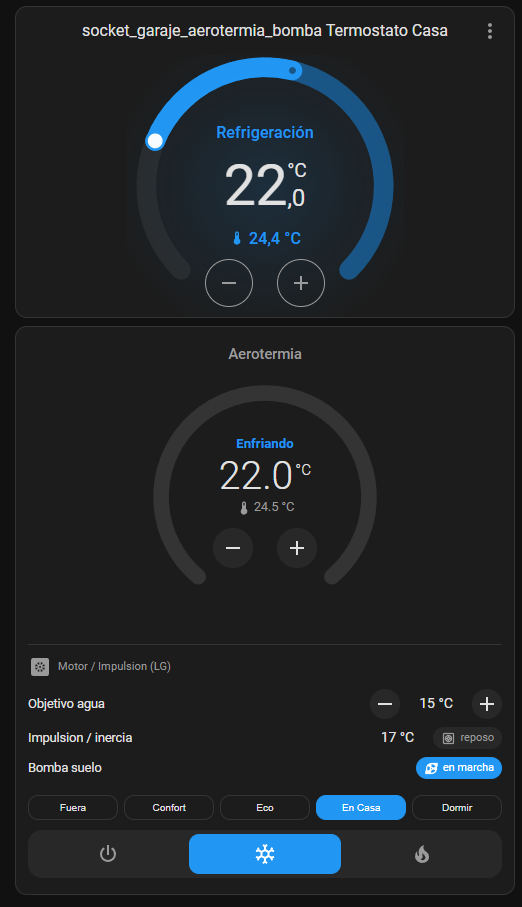
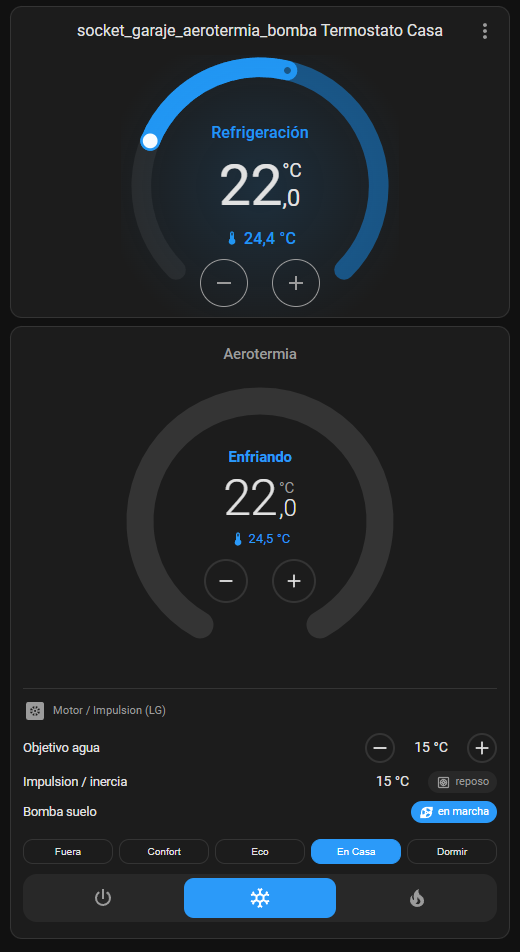
v1.2.1: fix dial invisible (usar tag svg de lit para fragmentos SVG)
Los fragmentos SVG interpolados (aro de color, degradado, tirador, punto actual)
se creaban con html`` (namespace HTML) y no se pintaban; ahora usan svg``.

diff --git a/src/aerothermal-card.ts b/src/aerothermal-card.ts
@@ -1,4 +1,4 @@
-import { LitElement, html, css, TemplateResult, nothing, PropertyValues } from "lit";
+import { LitElement, html, svg, css, TemplateResult, nothing, PropertyValues } from "lit";
 import { customElement, property, state } from "lit/decorators.js";
 import {
   HomeAssistant,
@@ -212,11 +212,11 @@ export class AerothermalCard extends LitElement implements LovelaceCard {
 <defs>
               <linearGradient id=${gradId} x1="0" y1="0" x2="1" y2="1">
                 ${this.modeState === MODE_OPTION.cool
-                  ? html`<stop offset="0%" stop-color="#5cc6ff" /><stop
+                  ? svg`<stop offset="0%" stop-color="#5cc6ff" /><stop
                         offset="100%"
                         stop-color="#1f7fd6"
                       />`
-                  : html`<stop offset="0%" stop-color="#ffb454" /><stop
+                  : svg`<stop offset="0%" stop-color="#ffb454" /><stop
                         offset="100%"
                         stop-color="#e8730a"
                       />`}
@@ -225,7 +225,7 @@ export class AerothermalCard extends LitElement implements LovelaceCard {
             <path class="track" d=${arcPath(100, 100, ARC_R, ARC_START, ARC_END)} />
             ${this.isOff
               ? nothing
-              : html`
+              : svg`
                   <!-- glow difuminado detras del aro -->
                   <path
                     class="glow"
@@ -238,7 +238,7 @@ export class AerothermalCard extends LitElement implements LovelaceCard {
                     d=${arcPath(100, 100, ARC_R, valueAngle, ARC_END)}
                   />
                   ${curDot
-                    ? html`<circle
+                    ? svg`<circle
                         class="curdot"
                         cx=${curDot.x}
                         cy=${curDot.y}

diff --git a/src/const.ts b/src/const.ts
@@ -1,3 +1,3 @@
-export const CARD_VERSION = "1.2.0";
+export const CARD_VERSION = "1.2.1";
 export const CARD_TAG = "aerothermal-temperature-control";
 export const EDITOR_TAG = "aerothermal-temperature-control-editor";

diff --git a/CHANGELOG.md b/CHANGELOG.md
@@ -4,6 +4,14 @@ Todas las versiones notables de este proyecto se documentan aquí.
 El formato sigue [Keep a Changelog](https://keepachangelog.com/) y
 [SemVer](https://semver.org/lang/es/).
 
+## [1.2.1] - 2026-06-18
+
+### Corregido
+- **No se veían el aro de color, el degradado, el tirador ni el punto de temperatura actual**
+  (solo el track gris). Causa: los fragmentos SVG interpolados (aro, tirador, punto y los
+  `<stop>` del degradado) se construían con el tag `html` de lit, que los crea en namespace
+  HTML y no se pintan dentro del `<svg>`. Ahora usan el tag `svg` de lit (namespace correcto).
+
 ## [1.2.0] - 2026-06-18
 
 ### Cambiado